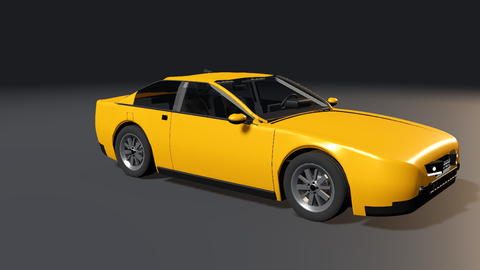
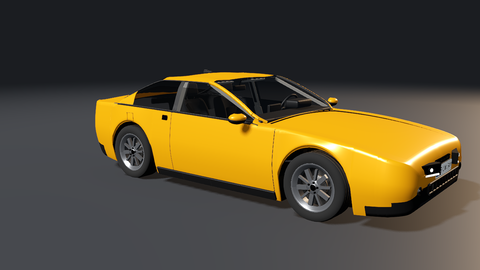
Procedural cars: squarer noses
The procedural bodies had a nose rounded like a bar of soap in plan view
(front corner radius 0.28-0.36 m). Saloon and hatchbacks now use 0.20 m, the
SUV 0.18 m and the sports cars 0.25-0.26 m, giving a wider, more defined
front; the lamp units follow the wider face. This also squares the crash
structure's front corners a little; core tests and the crash, bonnet, lamp,
scrape, prop and mirror tests pass. Thumbnails re-rendered.

Claude-Session: https://claude.ai/code/session_01Mew6yuoqkdYBDMrEikaviS

diff --git a/docs/ACCEPTANCE_STATUS.md b/docs/ACCEPTANCE_STATUS.md
@@ -6,7 +6,7 @@ konkrete Teilergebnisse und erklärt das Gesamtprodukt noch nicht für fertig.
 
 | Bereich | Nachgewiesene Änderung | Noch offen |
 |---|---|---|
-| Fahrzeugdarstellung | Kennzeichen vorn und hinten an allen Fahrzeugen (an der Karosserie mitbewegt, `plates_test`); Abgerundetes Cockpit, Instrumente mit realer Telemetrie, sichtbarer Motorraum unter gestützter Haube; Tages-/Nachtbilder in 1920×1080 geprüft; echte Cockpit-Außenspiegel mit korrigierter Kestrel-Blickrichtung; Innenraum mit konturierten Sitzen, Rückbank, Gurten, Teppich, Dachhimmel, Pedalen; Unterboden mit Abgasanlage, Hitzeschild, Trägern und Radhausschalen (auch für importierte Modelle); Scheinwerfer der prozeduralen Autos als Einheiten mit schmaler Blende, Chromreflektor, zwei Projektoren mit hellen Linsen und L-förmigem Tagfahrlicht, 17 cm hoch (Coupés 12 cm) knapp unter der Bugkante (vorher 12 cm hohe dunkle Schlitze, die wie Lufteinlässe wirkten); Rückleuchten mit dunklem Gehäuse, roter Lichtscheibe, Bremslichtband und weißem Rückfahrlicht (vorher zwei dünne rote Streifen) | Handmodellierte Detailqualität, vollständige Referenzbildserie |
+| Fahrzeugdarstellung | Kennzeichen vorn und hinten an allen Fahrzeugen (an der Karosserie mitbewegt, `plates_test`); Abgerundetes Cockpit, Instrumente mit realer Telemetrie, sichtbarer Motorraum unter gestützter Haube; Tages-/Nachtbilder in 1920×1080 geprüft; echte Cockpit-Außenspiegel mit korrigierter Kestrel-Blickrichtung; Innenraum mit konturierten Sitzen, Rückbank, Gurten, Teppich, Dachhimmel, Pedalen; Unterboden mit Abgasanlage, Hitzeschild, Trägern und Radhausschalen (auch für importierte Modelle); Scheinwerfer der prozeduralen Autos als Einheiten mit schmaler Blende, Chromreflektor, zwei Projektoren mit hellen Linsen und L-förmigem Tagfahrlicht, 17 cm hoch (Coupés 12 cm) knapp unter der Bugkante (vorher 12 cm hohe dunkle Schlitze, die wie Lufteinlässe wirkten); Rückleuchten mit dunklem Gehäuse, roter Lichtscheibe, Bremslichtband und weißem Rückfahrlicht (vorher zwei dünne rote Streifen); Bug der prozeduralen Autos in der Draufsicht weniger gerundet (Eckradius vorn Limousine/Fließheck 0,20 m, SUV 0,18 m, Sportwagen 0,25–0,26 m statt 0,28–0,36 m): breitere, kantigere Front statt Seifenstück-Form | Handmodellierte Detailqualität, vollständige Referenzbildserie |
 | Teile und Schaden | Kestrel-Stoßfänger vorn/hinten besitzen eigene Käfige/Masse, brechbare Halter und unabhängige Darstellung; Haube stößt gegen eigene Dach-/Motorflächen; Kestrel-Vordertüren öffnen/schließen mit getrennten Schlössern und Scharnieren und können abreißen; Scheinwerfer und Rückleuchten gehen je Ecke mit der Verformung der Karosserie kaputt und bleiben bis zur Reparatur dunkel (`lamp_damage_test`); Stoßfänger hängen an vier Clipgruppen (6 kN) und reißen eckweise ab, die Gegenseite bleibt bei Aufprallen dran; Türen mit getrennten Scharnieren (12 kN) und Schlössern (10 kN): beim Seitenaufprall bleibt die abgewandte Tür zu (`a side impact leaves the far door shut…`); viertürige Karosserien haben eigene Hintertüren (vom hinteren Radlauf bis vor die B-Säule, Scharniere an der B-Säule, Schlösser, Öffnung auf 62°, Türverkleidung, Scheibe und Rahmen wandern mit; Pausenmenü „Hintertüren öffnen / schließen“), auch bei den importierten Meridian-Limousinen, dem Estate und dem Trailhead entlang der Scharnier- und Fugenlinien des Modells (`frontDoorHingeX`, `bPillarX`, `rearDoorHingeX`, `rearDoorRearX`); Heckklappe (Estate, Trailhead mit Reserverad) bzw. Kofferraumdeckel (Limousinen, Fastback) als eigenes Bauteil an den Modellscharnieren mit Scharnier-/Schlossbruchgruppen und Gasdruckfedern auf Kanal 6, öffnet im Stand auf ~80° bzw. ~70° (`tailgate and boot lid release…`, `tailgate_test`, `Shift`+`O`); Haube und Heckklappe haben wie die Türen ein reversibles Schloss: erneutes `O`/`Shift`+`O` senkt sie ab, das Schloss fängt die Klappe auch zugeschlagen und zieht sie zu (`bonnet and tailgate open on their struts, close again and relatch…`); ein Heckaufprall mit 50 km/h lässt das Heckklappenschloss aufspringen, die Klappe bleibt als Teil an den Scharnieren; importierte Modelle werden an ihren Rädern auf die Achsen ausgerichtet (der Trailhead saß 18 cm vor seinen Rädern); Auto-gegen-Auto: nach einem Auffahrunfall lösen sich die Karosserien wieder – früher verhakte sich ein Knoten in einer Falte der anderen Haut (gegenläufige Flächen, nach innen zeigende Splitterdreiecke am Heck), beide fuhren als Einheit und wurden dann weggeschleudert; jetzt löst jeder Knoten nur noch seinen besten Kontakt auf, und die Hautdreiecke zeigen auch an Bug und Heck nach außen (`a rear-ended car drives away…`, 24 Auffahrszenarien geprüft); Scheiben reißen spinnennetzartig vom Aufprallpunkt aus, Seiten- und Heckscheiben platzen heraus; Splitter von Leuchten, Clips und Türen; Bordsteinschläge: ein Laufflächenpunkt über dem 4,5-fachen der statischen Radlast verbiegt die Felge (Leck), sehr harte Schläge schlitzen den Reifen; seitlich mit 30 km/h gegen einen 12-cm-Bordstein ist der Reifen platt, mit 12 km/h passiert nichts (`sliding a wheel into a kerb…`); Spurstangen geben ab 45 kN nach; Karosserie-Schleifen (Aufsetzen, Bordstein, Dach) erzeugt Kratzgeräusch und Funkenfächer an der Kontaktstelle, keine Fehlauslösung bei normaler Fahrt, Vollbremsung und harter Kurve (`body_scrape_test`, Render `spark_shot`) | Kompatible Segmentierung des importierten Concept (Haube, Türen, Heck); allgemeiner Kantenkontakt; Auffahrunfall, bei dem ein hohes SUV auf das Heck eines Kombis aufsteigt und dort liegen bleibt (physikalisch plausibel, aber unrealistisch weit); mit gehaltener Betriebsbremse und Handbremse zugleich blieb eine Hintertür nach dem Schließen 2–4° vor dem Schloss stehen (verspannte Karosserie an der Fuge); Auto Hold gibt deshalb bei gezogener Handbremse die Betriebsbremse frei, die Ursache an der Türfuge ist offen |
 | Fahrphysik | Alle sieben nativen Prüfstände bestehen Einfedern, Beschleunigen, Bremsen und Kurvenfahrt. Fahrwiderstand kalibriert (Kestrel 100 km/h: 1.910 → 419 N; Rollwiderstand c_rr 0,007–0,019 von 30 bis 130 km/h statt bis 0,047, mit 20 Laufflächen-Nodes und Hysterese-Moment; ein ungebremst geparktes Auto kommt zur Ruhe statt ±3 cm zu schaukeln), Reifenmembran ohne Stehwellen-Resonanz, starrer Radträger, Federbeindom, Achsträger, Mischbereifung Concept (achsweise Reifenmasse, kein Pendeln mehr): Vollgas-Spitzen 208–337 km/h (Kestrel 208, Aurora 246), alle Fahrzeuge geradeaus bis zur Höchstgeschwindigkeit ([Messung](DRIVING_RESISTANCE.md)); Überdrehzahl schadet dem Motor: „Geldschaltung" mit 150 km/h in den 1. Gang zerstört ihn (Pleuel), kostet ~55 % Getriebe und Kupplungsbelag, vernünftiges Zurückschalten bleibt folgenlos (`a money shift into 1st…`); Motorschäden wie bei BeamNG: Pleuellager (Klopfen bis Pleuelriss), Kolbenringe (Ölverbrennung), Ölmangel bei wenig Öl in Kurven, Fahrzeugbrand (`oil on a hot engine…`, `fire_test`); Bremsen halten statisch am Hang: voll gebremst bei 30 %, nur mit Handbremse bei 20 % keine Bewegung und kein Schaukeln (Haltebremse als gedämpfte Winkelfeder bis zum Klemmmoment, Haftreibung auch auf Positionsebene; vorher kroch ein gebremstes Auto bei 15 % mit 1,5 km/h, `brakes hold a car on a steep hill…`) | Einzelne Rollwiderstands-Resonanzbuckel (Fastback 80 km/h c_rr 0,021); Renderfrequenz-Vergleich und Langzeitfahrt mit mehreren beschädigten Fahrzeugen |
 | Testgelände | Freie Bremsgerade als Start, Wegweiser, Servicezufahrt, Nachtlampen, kollidierende Dächer, bepflanzte Innenflächen, Geländebermen und Randbegrenzung; rot-weiße Curbs in beiden Ovalkurven, kollidierende Reifenstapel hinter der Auslaufzone, Tribüne mit Dach und Fahnen an der Nordgeraden | – |
